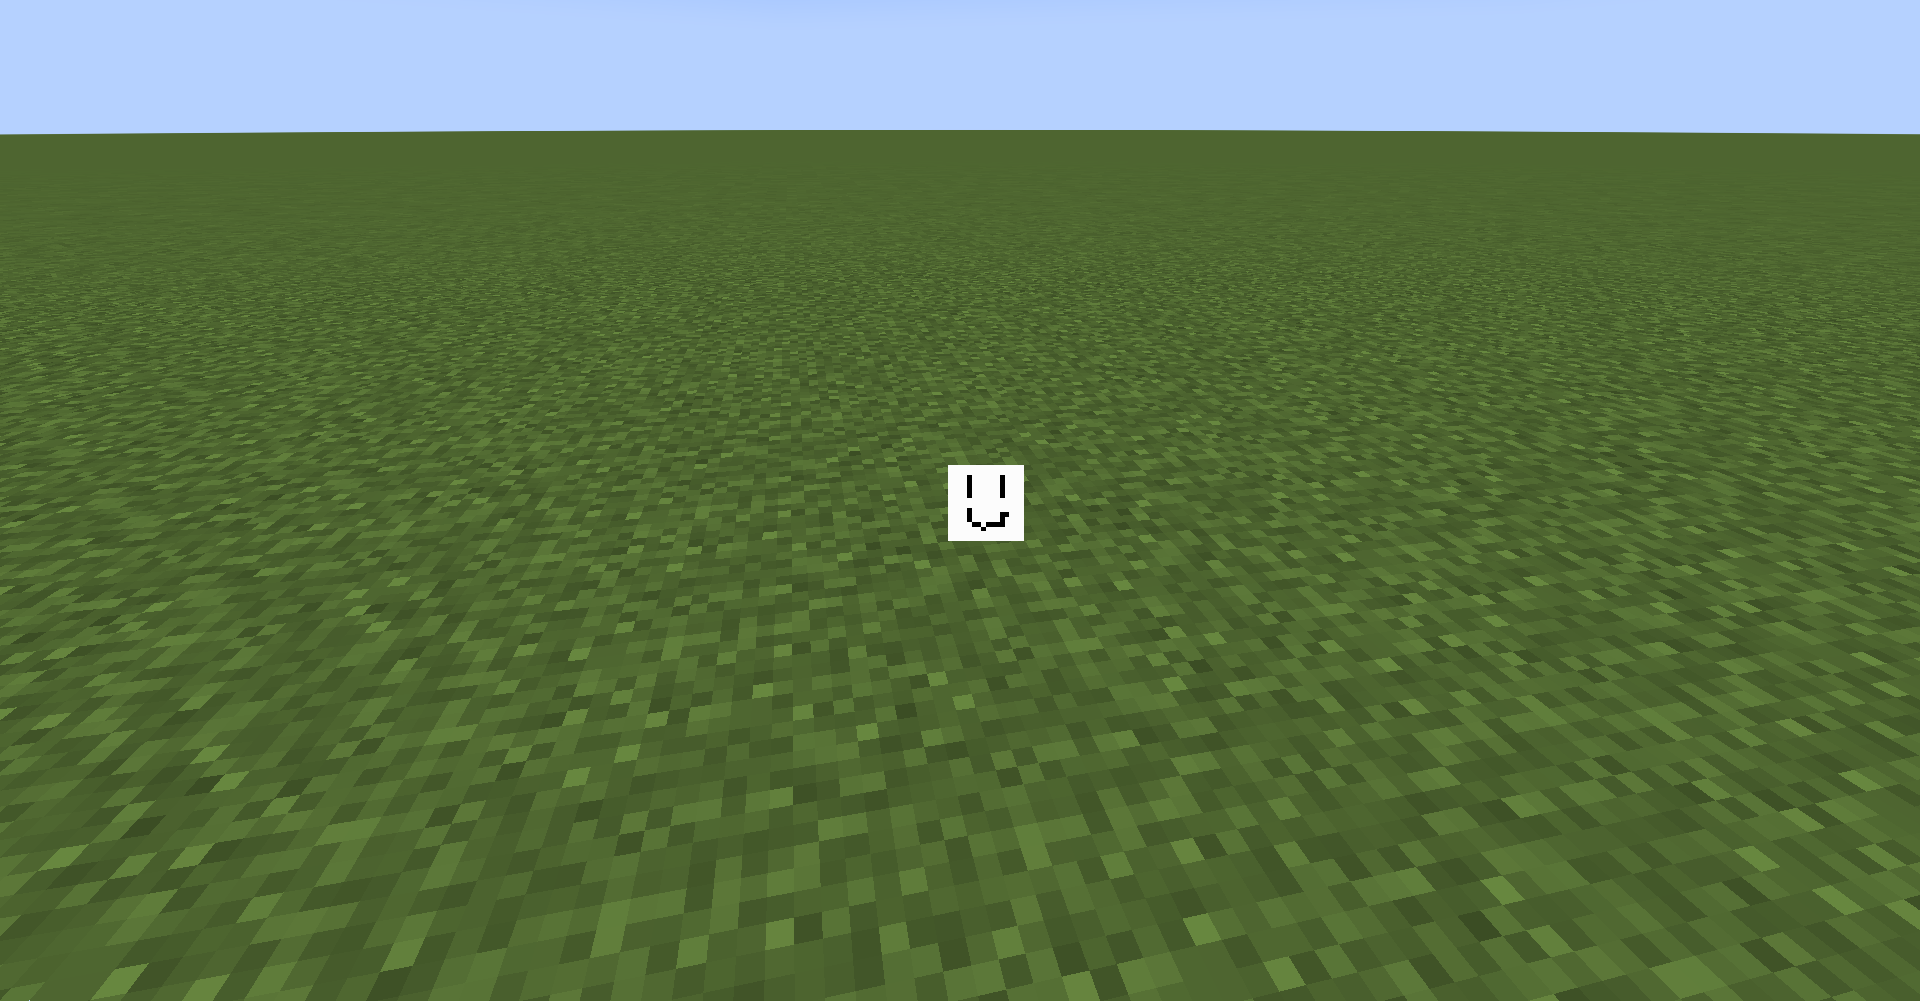
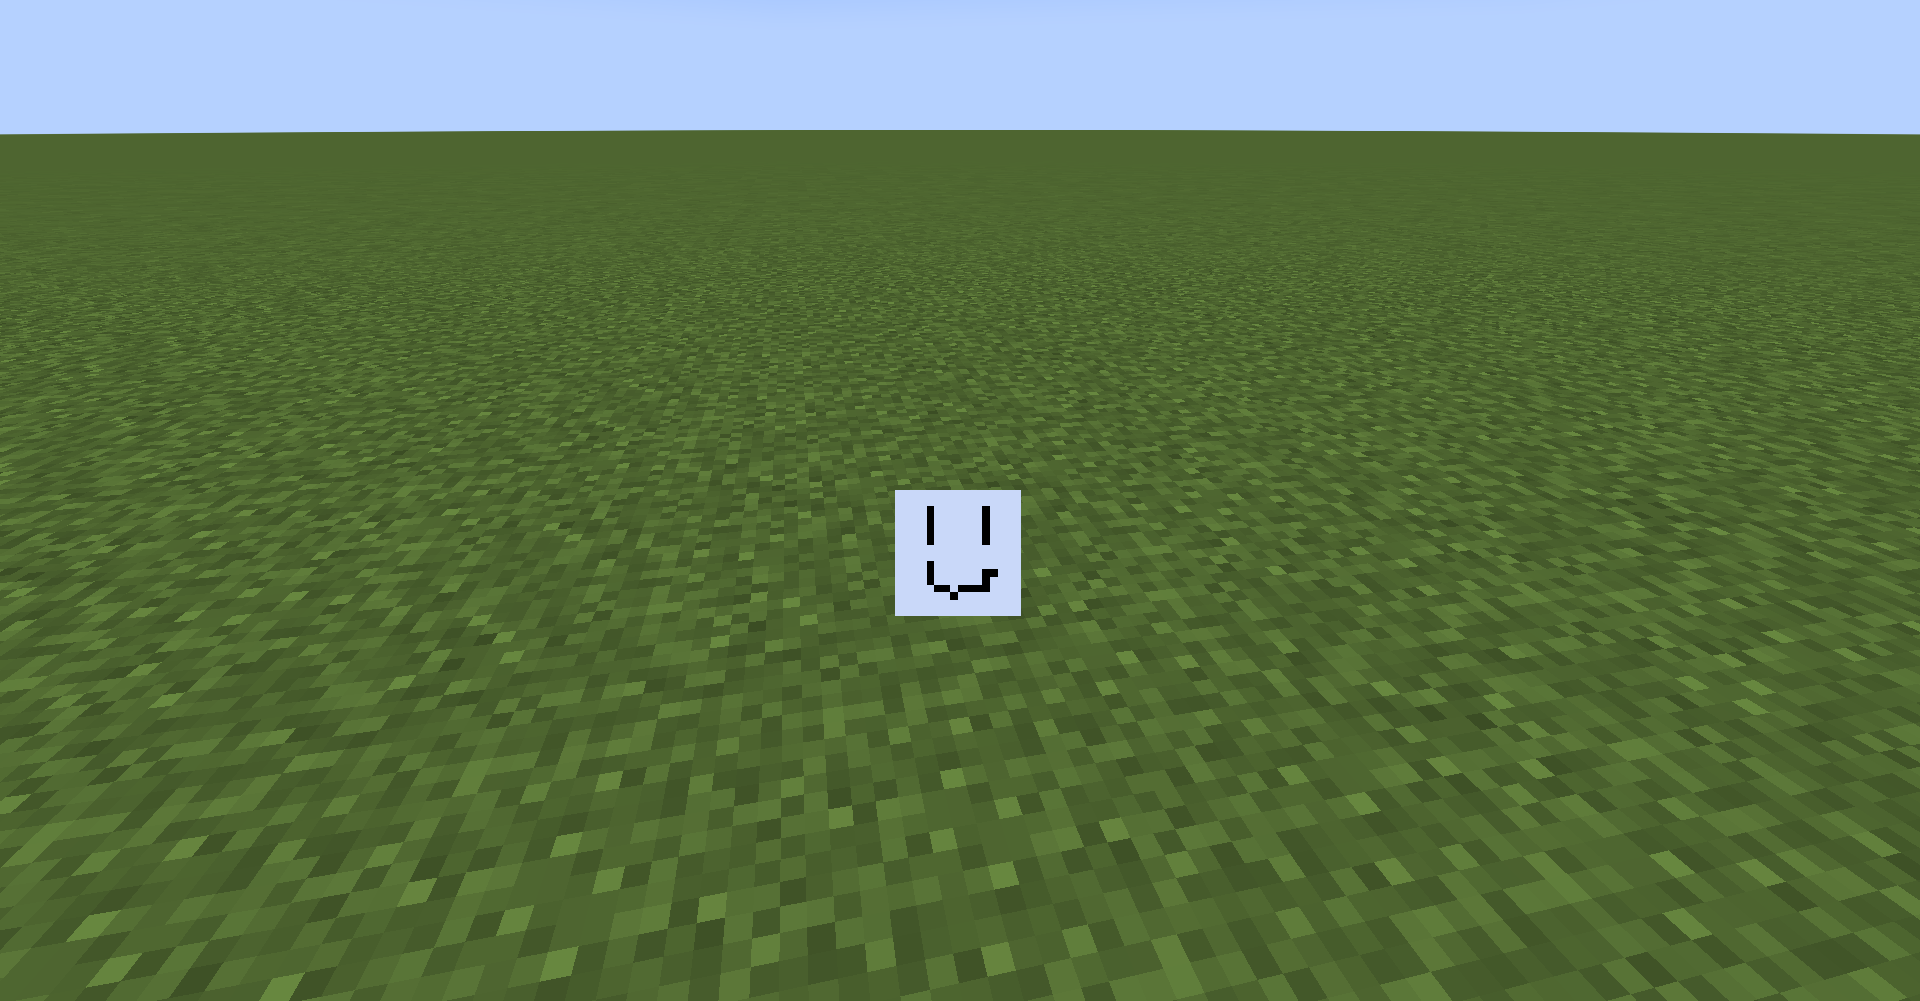
Added image and texture download
FEAT: Added a preview of the example texture
FEAT: Added a download for example texture which is only 16x16 pixels
FEAT: Added image of example particle in-game

diff --git a/content/9.misc/creating-particles.md b/content/9.misc/creating-particles.md
@@ -46,7 +46,14 @@ Let's begin with creating the folders necessary for the particle's texture(s). A
 
 For this example, we will only be adding one texture, named "myparticletexture.png". It'll be a simple pixel art smiley face.
 
-ADD SMILEY FACE HERE
+![](/misc/creating_particles_0.png)
+
+<div align="center">
+    <a target="_blank" href="/misc/creating_particles_0_small.png">Download Texture</a>
+</div>
+<br>
+
+edited it has been edited look it has been edited look look
 
 Next, add the new `resources/assets/<mod id here>/particles` folder to your directory. Notice the "s" in "particles" for this folder's name. In this new `particles` folder, create a new json file named "my_particle.json" This is the lowercase "my_particle" from the inital registration.
 
@@ -74,4 +81,9 @@ You can add more textures to animate the particle as well!
 
 ## Testing the new particle
 
-Once you have completed the json file and saved your work, you are good to go! Load up minecraft and test everything out! You can see if everything has worked by typing the command `/particle <mod id here>:my_particle ~ ~1 ~`. You may need to go into third person to get a good look at it. You can also use a command block to summon the particle with the exact same command!
+Once you have completed the json file and saved your work, you are good to go! Load up minecraft and test everything out! 
+
+You can see if everything has worked by typing the command `/particle <mod id here>:my_particle ~ ~1 ~`. You may need to go into third person to get a good look at it. You can also use a command block to summon the particle with the exact same command!
+
+![](/misc/creating_particles_1.png)
+
